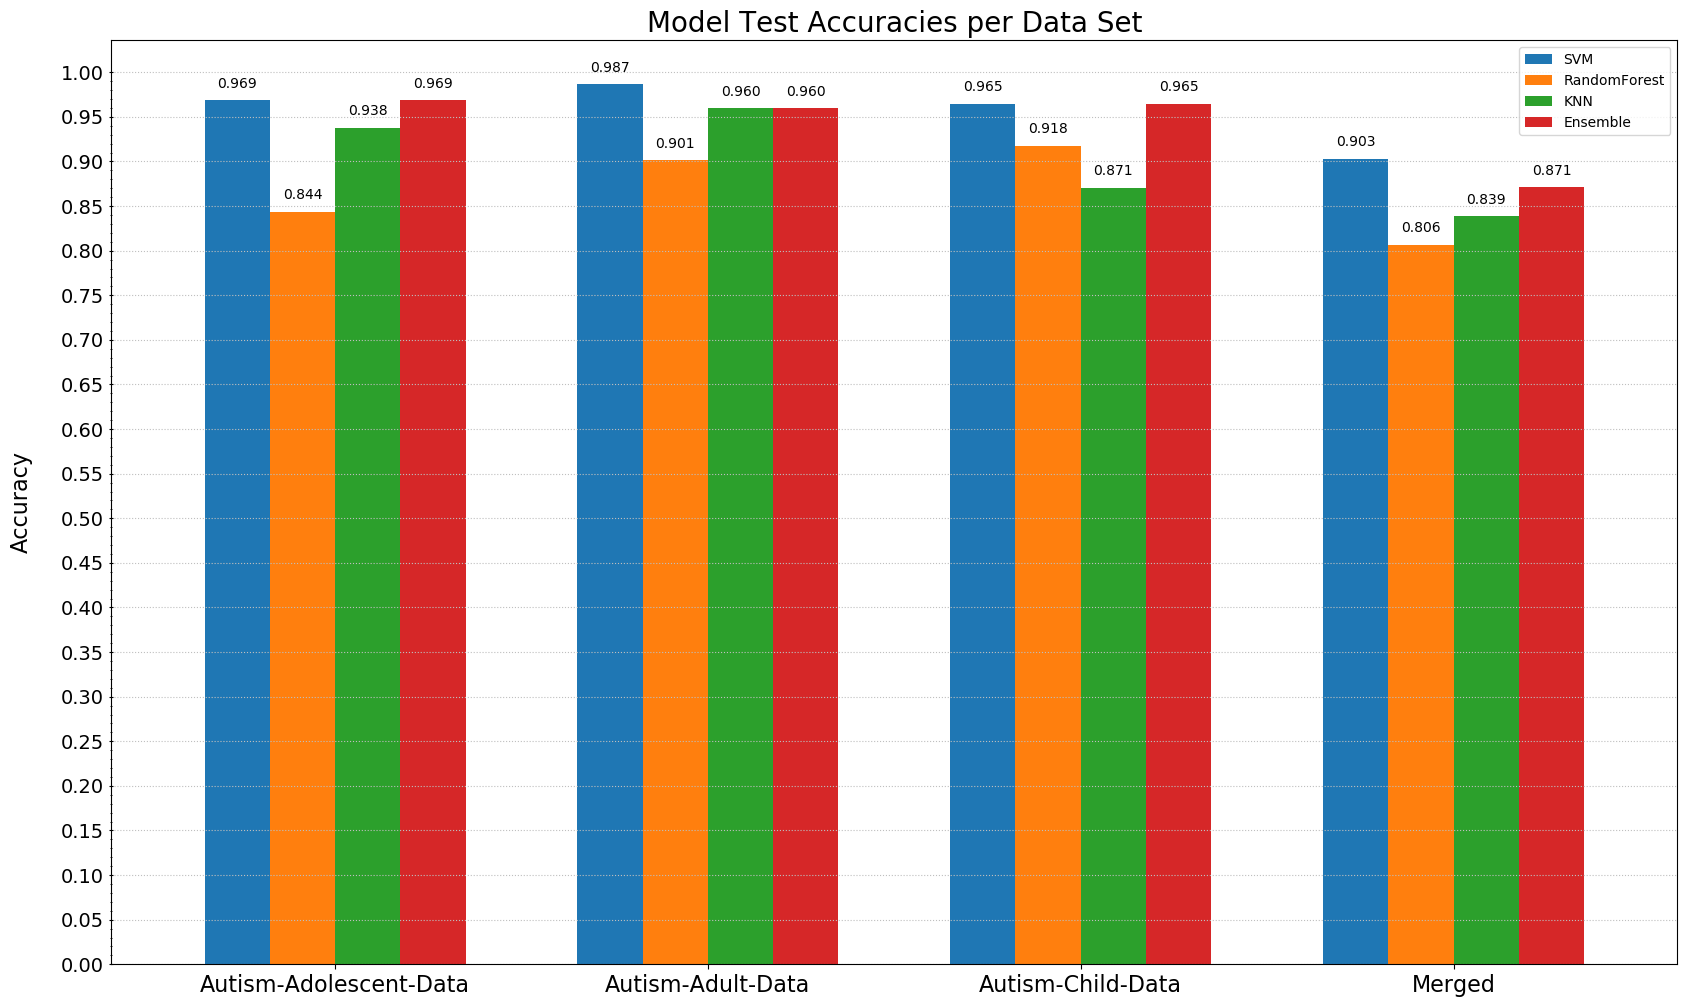
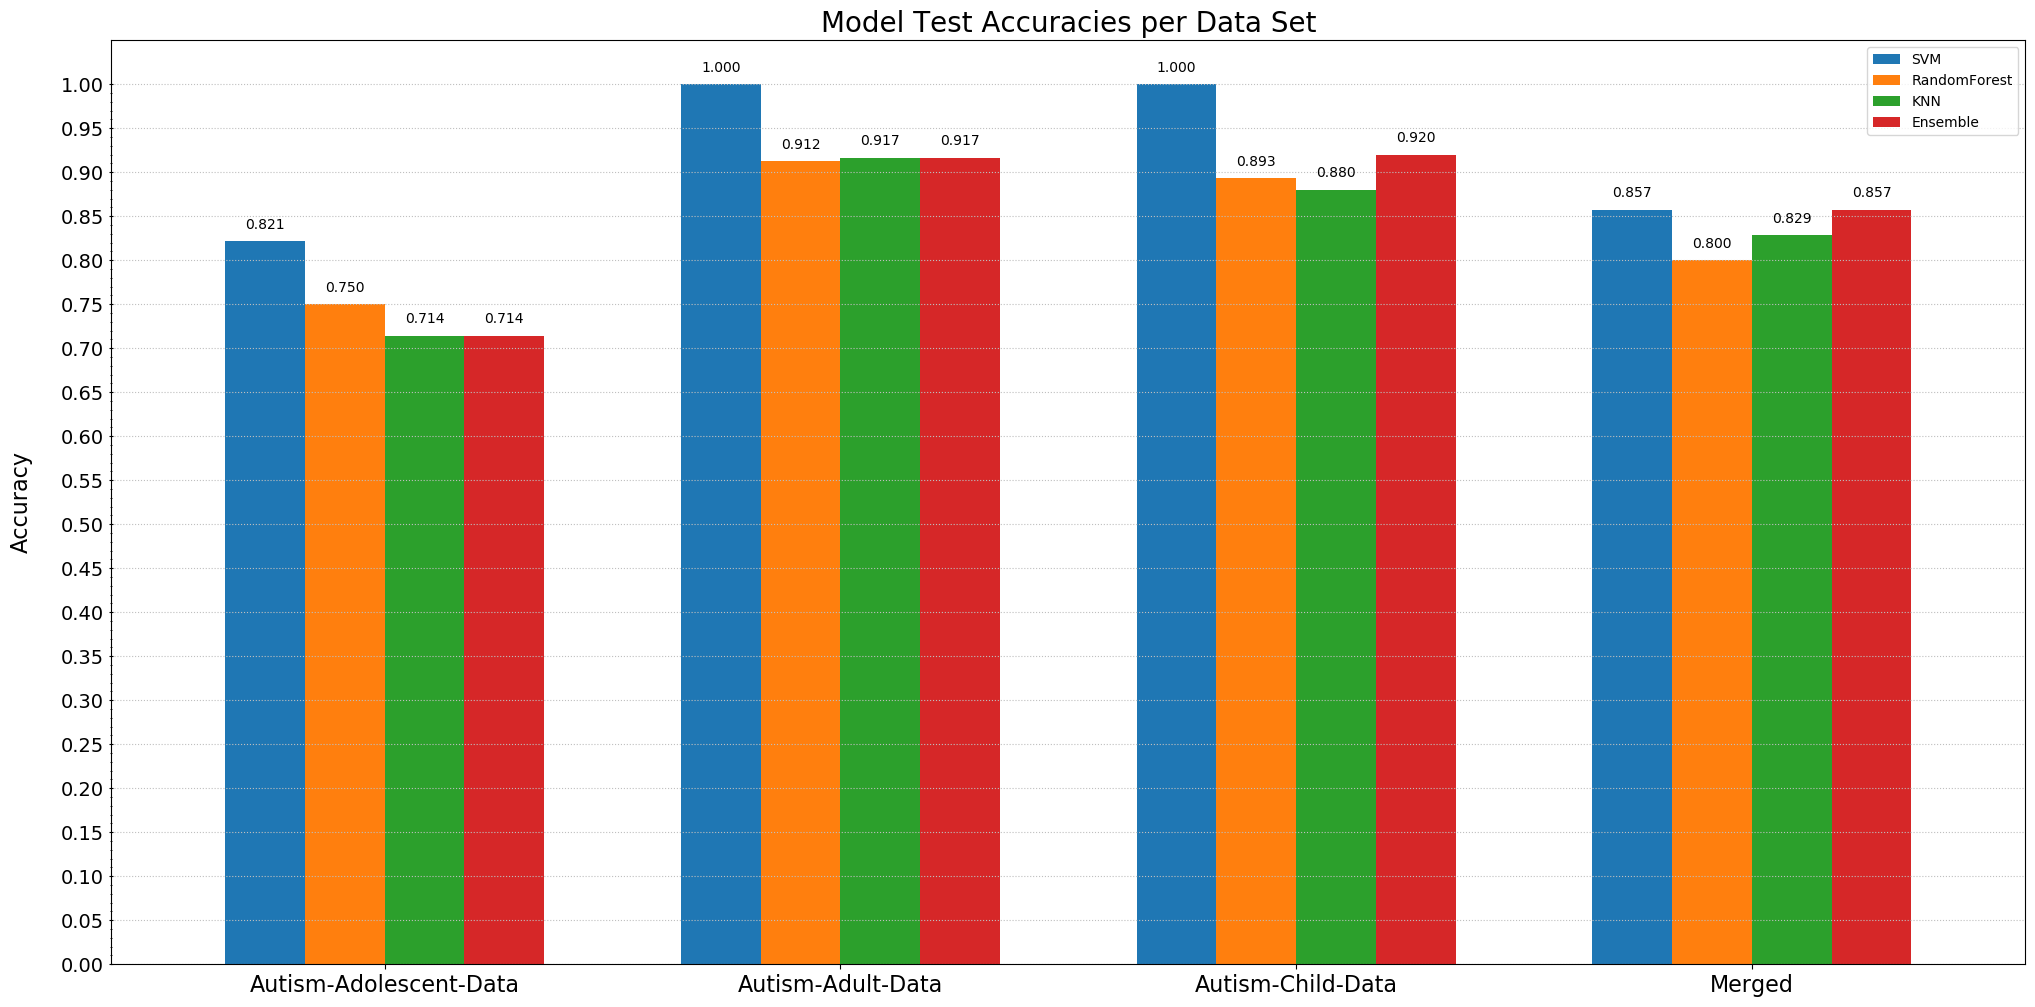
Final implementation; missing comments

diff --git a/classifier.py b/classifier.py
@@ -1,6 +1,8 @@
+from sys import platform
 from typing import List
 
 import matplotlib.pyplot as plt
+from matplotlib.cm import get_cmap
 import numpy as np
 import pandas as pd
 from matplotlib import ticker
@@ -26,20 +28,24 @@ def get_ensemble_accuracies(data_sets: List[DataSet]):
     accuracies = pd.DataFrame({data_set_name: {"Ensemble": 0} for data_set_name, predictions in y.items()})
     for data_set in data_sets:
         compare = ensemble_y[data_set.name]["y"] == data_set.y_test
-        accuracy = np.unique(compare, return_counts=True)[1][1] / float(compare.shape[0])
+        prediction_result = np.unique(compare, return_counts=True)
+        num_correct = prediction_result[1][1] if len(prediction_result[1]) > 1 else prediction_result[1][0]
+        accuracy = num_correct / float(compare.shape[0])
         accuracies[data_set.name] = accuracy
 
     return data_sets, accuracies
 
 
-def plot_accuracies(data_sets: List[DataSet], ensemble_accuracy: pd.DataFrame):
-    figsize = (18, 12)
+fig_size = (22, 12)
 
+
+def plot_accuracies(data_sets: List[DataSet], ensemble_accuracy: pd.DataFrame):
     data_sets_accuracies = pd.DataFrame({data_set.name: data_set.accuracy for data_set in data_sets})
     accuracies = data_sets_accuracies.append(ensemble_accuracy).T
 
-    fig = accuracies.plot(figsize=figsize, kind="bar", rot=0, width=0.7)
-    fig.set_title("Model Test Accuracies per Data Set", fontsize=20)
+    fig = accuracies.plot(figsize=fig_size, kind="bar", rot=0, width=0.7)
+    title = f"Model Test Accuracies per Data Set"
+    fig.set_title(title, fontsize=20)
     fig.tick_params(axis="x", labelsize=16)
     fig.set_ylabel("Accuracy", labelpad=20, fontsize=16)
     fig.tick_params(axis="y", direction="inout", which="both", labelsize=14)
@@ -48,34 +54,83 @@ def plot_accuracies(data_sets: List[DataSet], ensemble_accuracy: pd.DataFrame):
 
     plt.subplots_adjust(left=0.08, right=0.95)
 
-    autolabel(fig)
+    auto_label(fig)
 
     plt.grid(True, axis="y", color="#bfbfbf", linestyle=":")
-    plt.savefig(CWD.joinpath("figures", "Model Test Accuracies per Data Set.png"), bbox_inches="tight")
 
+    if platform == "win32":
+        plt.get_current_fig_manager().window.state("zoomed")
+
+    save_path = CWD.joinpath("figures", f"{title}.png")
+
+    plt.savefig(save_path, bbox_inches="tight")
     plt.show()
 
 
-def plot_feature_importances(data_sets: List[DataSet]):
-    figsize = (18, 12)
+def plot_feature_importances_by_model(data_sets: List[DataSet], num_features: int = 5):
+    names = [data_set.name.split("-")[1] if "-" in data_set.name else data_set.name for data_set in data_sets]
 
-    feature_importances = {data_set.name: data_set.feature_importance for data_set in data_sets}
-    fig, axes = plt.subplots(nrows=1, ncols=4, figsize=figsize)
+    svm = [data_set.feature_importance.nlargest(num_features, "SVM")["SVM"] for data_set in data_sets]
+    rf = [data_set.feature_importance.nlargest(num_features, "RandomForest")["RandomForest"] for data_set in data_sets]
+
+    feature_importances = {"SVM": pd.concat(svm, axis=1, keys=names, sort=False).T,
+                           "RandomForest": pd.concat(rf, axis=1, keys=names, sort=False).T}
+
+    fig, axes = plt.subplots(nrows=1, ncols=2, figsize=fig_size)
 
     for i, (name, features) in enumerate(feature_importances.items()):
-        feature_importances[name] = features.nlargest(3, ["SVM", "RandomForest"]).T
-        feature_importances[name].plot(ax=axes[i], title=name, kind="bar", rot=0, width=0.7)
-        setup(axes[i], 1.21, 1.21)
-        autolabel(axes[i])
+        feature_importances[name].plot(ax=axes[i], title=name, kind="bar", rot=0, width=0.7, colormap=get_cmap("tab20"))
 
-    plt.suptitle("Feature Importances by Model per Data Set", fontsize=24)
-    plt.subplots_adjust(left=0.05, right=0.95)
+    axes[0].set_ylabel("Importance", labelpad=20, fontsize=16)
 
-    plt.savefig(CWD.joinpath("figures", "Feature Importances by Model per Data Set.png"), bbox_inches="tight")
+    setup(axes[0])
+    auto_label(axes[0])
+
+    setup(axes[1])
+    auto_label(axes[1])
+
+    title = f"Feature Importances by Model per Data Set"
+    plt.suptitle(title, fontsize=24)
+
+    plt.subplots_adjust(left=0.05, bottom=0.07, right=0.97, top=0.9, wspace=0.11)
+
+    if platform == "win32":
+        plt.get_current_fig_manager().window.state("zoomed")
+
+    save_path = CWD.joinpath("figures", f"{title}.png")
+
+    plt.savefig(save_path, bbox_inches="tight")
     plt.show()
 
 
-def setup(ax, major_ymax, minor_ymax):
+def plot_feature_importances_by_data_set(data_sets: List[DataSet], num_features: int = 5):
+    feature_importances = {data_set.name: data_set.feature_importance for data_set in data_sets}
+    fig, axes = plt.subplots(nrows=1, ncols=4, figsize=fig_size)
+
+    for i, (name, features) in enumerate(feature_importances.items()):
+        feature_importances[name] = features.nlargest(num_features, ["SVM", "RandomForest"]).T
+        feature_importances[name].plot(ax=axes[i], title=name, kind="bar", rot=0, width=0.7)
+
+    setup(axes[0])
+    auto_label(axes[0])
+
+    setup(axes[1])
+    auto_label(axes[1])
+
+    title = "Feature Importances by Data Set per Model"
+    plt.suptitle(title, fontsize=24)
+    plt.subplots_adjust(left=0.05, bottom=0.07, right=0.97)
+
+    if platform == "win32":
+        plt.get_current_fig_manager().window.state("zoomed")
+
+    save_path = CWD.joinpath("figures", f"{title}.png")
+
+    plt.savefig(save_path, bbox_inches="tight")
+    plt.show()
+
+
+def setup(ax, ymax=None):
     for tick in ax.xaxis.get_major_ticks():
         tick.label.set_fontsize(12)
     ax.yaxis.set_ticks_position("left")
@@ -84,12 +139,16 @@ def setup(ax, major_ymax, minor_ymax):
     ax.tick_params(which="minor", width=0.75)
     ax.tick_params(which="minor", length=2.5)
     ax.patch.set_alpha(0.0)
-    ax.yaxis.set_ticks(np.arange(0.0, major_ymax, 0.05))
-    ax.yaxis.set_ticks(np.arange(0.0, minor_ymax, 0.01), minor=True)
+    if ymax is None:
+        ax.yaxis.set_major_locator(ticker.AutoLocator())
+        ax.yaxis.set_minor_locator(ticker.AutoMinorLocator())
+    else:
+        ax.yaxis.set_ticks(np.arange(0.0, ymax, 0.05))
+        ax.yaxis.set_ticks(np.arange(0.0, ymax, 0.01), minor=True)
     ax.grid(axis="y", linestyle="dotted", color="grey")
 
 
-def autolabel(ax):
+def auto_label(ax):
     rects = ax.patches
 
     (y_bottom, y_top) = ax.get_ylim()
@@ -104,10 +163,12 @@ def autolabel(ax):
         else:
             label_position = height + (y_height * 0.01)
 
-        ax.text(rect.get_x() + rect.get_width() / 2., label_position, "{0:.3f}".format(height), ha='center', va='bottom')
+        if label_position > 0.1:
+            ax.text(rect.get_x() + rect.get_width() / 2., label_position, "{0:.3f}".format(height), ha='center', va='bottom')
 
 
 if __name__ == "__main__":
     data_sets, ensemble_accuracies = get_ensemble_accuracies(ALL_DATA_SETS)
-    # plot_accuracies(data_sets, ensemble_accuracies)
-    plot_feature_importances(data_sets)
+    plot_accuracies(data_sets, ensemble_accuracies)
+    plot_feature_importances_by_model(data_sets)
+    # plot_feature_importances_by_data_set(data_sets)

diff --git a/dataset.py b/dataset.py
@@ -30,7 +30,7 @@ CONTINENTS = ["africa", "asia", "europe", "north america",
 
 
 class DataSet:
-    def __init__(self, train_file_paths: List[Path], split_ratio: float = 0.8):
+    def __init__(self, train_file_paths: List[Path], split_ratio: float = 0.8, merged: bool = False):
         """
         Creates a DataSet object using the given arff file.
         Calculates variables required to train the model and classify new instances.
@@ -42,11 +42,21 @@ class DataSet:
         # Data set's name
         self.name = str(self.train_file).split(".")[0] if len(train_file_paths) == 1 else "Merged"
 
+        self.merged = merged
+
         # Reads the training data from the train csv
         self.data: pd.DataFrame = pd.DataFrame(arff.loadarff(CWD.joinpath(train_file_paths[0]))[0]).iloc[:, 0:]
 
-        if len(train_file_paths) > 1:
+        if self.merged:
             for file_path in train_file_paths[1:]:
+                self.data.drop(columns=[col for col in self.data.columns if "5" in col or "7" in col or "9" in col or "10" in col],
+                               inplace=True)
+                if "Adolescent" in str(file_path) or "Child" in str(file_path):
+                    self.data.drop(columns=[col for col in self.data.columns if "8" in col], inplace=True)
+                if "Adult" in str(file_path):
+                    self.data.drop(columns=[col for col in self.data.columns if "1" in col], inplace=True)
+                    cols = [col for col in self.data.columns if "8" not in col] + [col for col in self.data.columns if "8" in col]
+                    self.data = self.data[[cols[-1]] + cols[:-1]]
                 self.data.append(pd.DataFrame(arff.loadarff(CWD.joinpath(file_path))[0]).iloc[:, 0:])
         self.preprocess()
 
@@ -68,13 +78,11 @@ class DataSet:
                                                              columns=["SVM", "RandomForest"])
         self.y_predict: pd.DataFrame = pd.DataFrame(np.zeros((self.y_test.shape[0], len(list(self.models.keys())))),
                                                     columns=list(self.models.keys()))
-        # self.fit()
-        # self.score()
 
     def preprocess(self):
         encoder = preprocessing.LabelEncoder()
-        self.data.rename(columns={"jundice": "jaundice", "austim": "autism", "contry_of_res": "country_of_res"},
-                         inplace=True)
+
+        self.data.rename(columns={"austim": "autism", "contry_of_res": "country_of_res", "jundice": "jaundice"}, inplace=True)
         continents = []
 
         for col in self.data.columns:
@@ -83,10 +91,10 @@ class DataSet:
                 self.data[col] = self.data[col].str.lower()
 
             if "?" in list(self.data[col].values):
-                mode = self.data[col].mode().values[0]
-                self.data.loc[self.data[col] == "?", col] = mode
+                self.data.loc[self.data[col] == "?", col] = np.nan
 
             if self.data[col].isnull().values.any():
+                self.remove_nans()
                 mode = self.data[col].mode().values[0]
                 self.data[col].fillna(mode, inplace=True)
 
@@ -107,16 +115,13 @@ class DataSet:
                     else:
                         continents.append(country)
 
-                # continents = [country_alpha2_to_continent_code(country_name_to_country_alpha2(country, "lower"))
-                #               if country not in CONTINENTS else country for country in self.train_data["country_of_res"].values]
-
             if "ethnicity" in col or "country" in col or "age_desc" in col or "relation" in col or "continent" in col:
                 self.data[col] = encoder.fit_transform(self.data[col])
 
             elif "Score" in col:
                 self.data[col] = self.data[col].astype(int)
 
-        self.data.insert(16, "continent", continents)
+        self.data.insert(0, "continent", continents)
         self.data["continent"] = encoder.fit_transform(self.data["continent"])
 
         self.data.gender[self.data.gender == "m"] = 0
@@ -134,18 +139,32 @@ class DataSet:
         self.data["Class/ASD"][self.data["Class/ASD"] == "no"] = 0
         self.data["Class/ASD"][self.data["Class/ASD"] == "yes"] = 1
 
-        self.data.drop(columns=["continent", "result"], inplace=True)
+        self.data.drop(columns=["continent"], inplace=True)
 
         for col in self.data.columns:
             self.data[col] = self.data[col].astype(float)
-        #
-        # self.train_data.reset_index(drop=True, inplace=True)
+
+    def remove_nans(self):
+        # the dataframe has to be a pandas dataframe
+        # find all nans in dataframe
+        df_nans = self.data.isnull().sum().sum()
+
+        if df_nans / len(self.data.index) < 0.1:
+            self.data = self.data.dropna()
 
     def normalize(self):
-        for col in ["age", "ethnicity", "country_of_res", "relation"]:
-            mean_diff = self.X[col] - self.X[col].mean()
-            std = self.X[col].std(ddof=0)
-            self.X[col] = mean_diff / std if std != 0 else 0
+        cols = ["age", "ethnicity", "country_of_res", "relation", "result"]
+
+        for col in cols:
+            if col == "result":
+                self.X[self.X[col] >= 7.5] = 1.0
+                self.X[col] = np.where(self.X[col].between(5, 7.499), 5.0, self.X[col])
+                self.X[col] = np.where(self.X[col].between(2.5, 4.999), 2.5, self.X[col])
+                self.X[col] = np.where(self.X[col].between(0, 2.499), 0, self.X[col])
+            else:
+                mean_diff = self.X[col] - self.X[col].mean()
+                std = self.X[col].std(ddof=0)
+                self.X[col] = mean_diff / std if std != 0 else 0
 
     def train_test_split(self, percentage: float = 0.8):
         mask = np.random.rand(len(self.X)) < percentage
@@ -212,12 +231,6 @@ CHILDREN_PATH = CWD.joinpath("data", "Autism-Screening-Child-Data Plus Descripti
 Adolescents = DataSet([ADOLESCENTS_PATH], split_ratio=split)
 Adults = DataSet([ADULTS_PATH], split_ratio=split)
 Children = DataSet([CHILDREN_PATH], split_ratio=split)
-Merged = DataSet([ADOLESCENTS_PATH, ADULTS_PATH, CHILDREN_PATH], split_ratio=split)
+Merged = DataSet([ADOLESCENTS_PATH, ADULTS_PATH, CHILDREN_PATH], split_ratio=split, merged=True)
 
 ALL_DATA_SETS = [Adolescents, Adults, Children, Merged]
-
-
-if __name__ == "__main__":
-    d = DataSet(CWD.joinpath("data", "Autism-Adolescent-Data Plus Description", "Autism-Adolescent-Data.arff"))
-    print(d)
-    pass

diff --git a/README.md b/README.md
@@ -1,1 +1,15 @@
 # CISC6930_Project
+by Henry Gorelick and Debarshi Dutta
+
+## Instructions
+##### Before running any of the scripts:
+1. Download and unzip the assignment.
+2. Open the command line and navigate to the assignment's root directory.
+    * Ensure you are in the directory that contains the files `classifier.py`, `dataset.py`, etc.
+
+##### After following steps 1 and 2:
+To run the classifier and generate the accuracy and feature importance plots run the following command:
+
+`python classifier.py`
+    
+The plots will be saved in the `./figures` directory.

diff --git a/notes.md b/notes.md
@@ -8,7 +8,7 @@
 * Add continent column
 
 ## Imputation
-* For ethnicity (assume mean == mode):
+* For ethnicity/age (assume mean == mode):
     * Try mode of country_of_res
     * Otherwise, mode of continent
     
